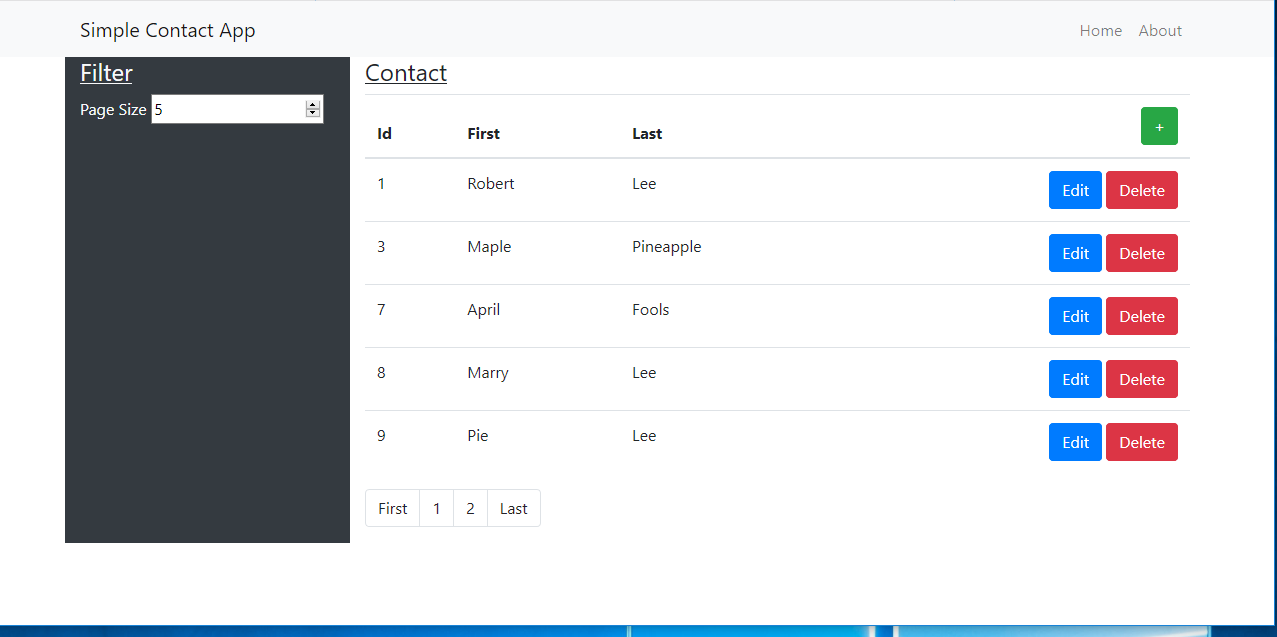
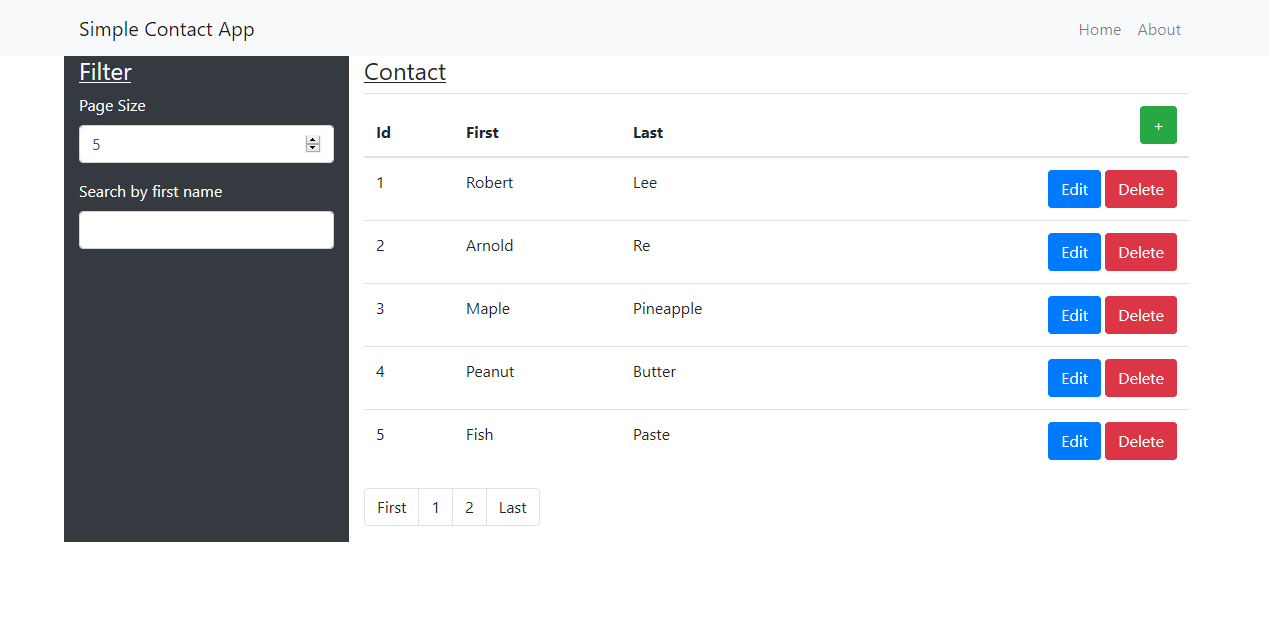
add search by first name

diff --git a/src/app/contact-list/contact-list.component.ts b/src/app/contact-list/contact-list.component.ts
@@ -13,6 +13,7 @@ export class ContactListComponent implements OnInit {
   maxPage: number;
   currentPage = 1;
   pageSize = 5;
+  searchFirstName = '';
 
   constructor(private personService: PersonService) { }
 
@@ -34,15 +35,28 @@ export class ContactListComponent implements OnInit {
     this.updateList();
   }
 
-  updateList(): void {
+  changePageSize(): void {
     this.currentPage = 1;
-    this.currentPageContacts = this.contacts.slice((this.currentPage - 1) * this.pageSize, this.currentPage * this.pageSize);
-    this.maxPage = Math.ceil(this.contacts.length / this.pageSize);
+    this.updateList();
+
+  }
+
+  searchByFirstName(): void {
+    this.currentPage = 1;
+    this.updateList();
+  }
+
+  updateList(): void {
+
+    const filterContacts = this.contacts.filter(contact => contact.firstName.toLowerCase().includes(this.searchFirstName.toLowerCase()));
+
+    this.currentPageContacts = filterContacts.slice((this.currentPage - 1) * this.pageSize, this.currentPage * this.pageSize);
+    this.maxPage = Math.ceil(filterContacts.length / this.pageSize);
   }
   changePage(page: number): void {
     if (page > 0 && page < this.maxPage + 1) {
       this.currentPage = page;
-      this.currentPageContacts = this.contacts.slice((this.currentPage - 1) * this.pageSize, this.currentPage * this.pageSize);
+      this.updateList();
     }
   }
 

diff --git a/src/app/contact-list/contact-list.component.html b/src/app/contact-list/contact-list.component.html
@@ -2,8 +2,15 @@
     <div class="row">
       <div class="col-3 bg-dark text-light height">
         <h4>Filter</h4>
-        <label for="pageSize">Page Size</label>
-        <input type="number" min="1" id="pageSize" [(ngModel)]="pageSize" (change)="updateList()">
+        <div class="form-group">
+          <label for="pageSize">Page Size</label>
+          <input class="form-control" type="number" min="1" id="pageSize" [(ngModel)]="pageSize" (change)="updateList()">
+        </div>
+        <div>
+          <label for="searchFirstName">Search by first name</label>
+          <input class="form-control" type="text" id="searchFirstName" [(ngModel)]="searchFirstName" (change)="searchByFirstName()">
+        </div>
+       
       </div>
       <div class="col-9">
         <h4>Contact</h4>

diff --git a/README.md b/README.md
@@ -2,3 +2,6 @@
 
 ![Application Image]
 (https://github.com/LauAlbert/AngularContactApp/blob/master/screenshot/Capture.PNG)
+
+![Application Image]
+(https://github.com/LauAlbert/AngularContactApp/blob/master/screenshot/Capture2.PNG)
